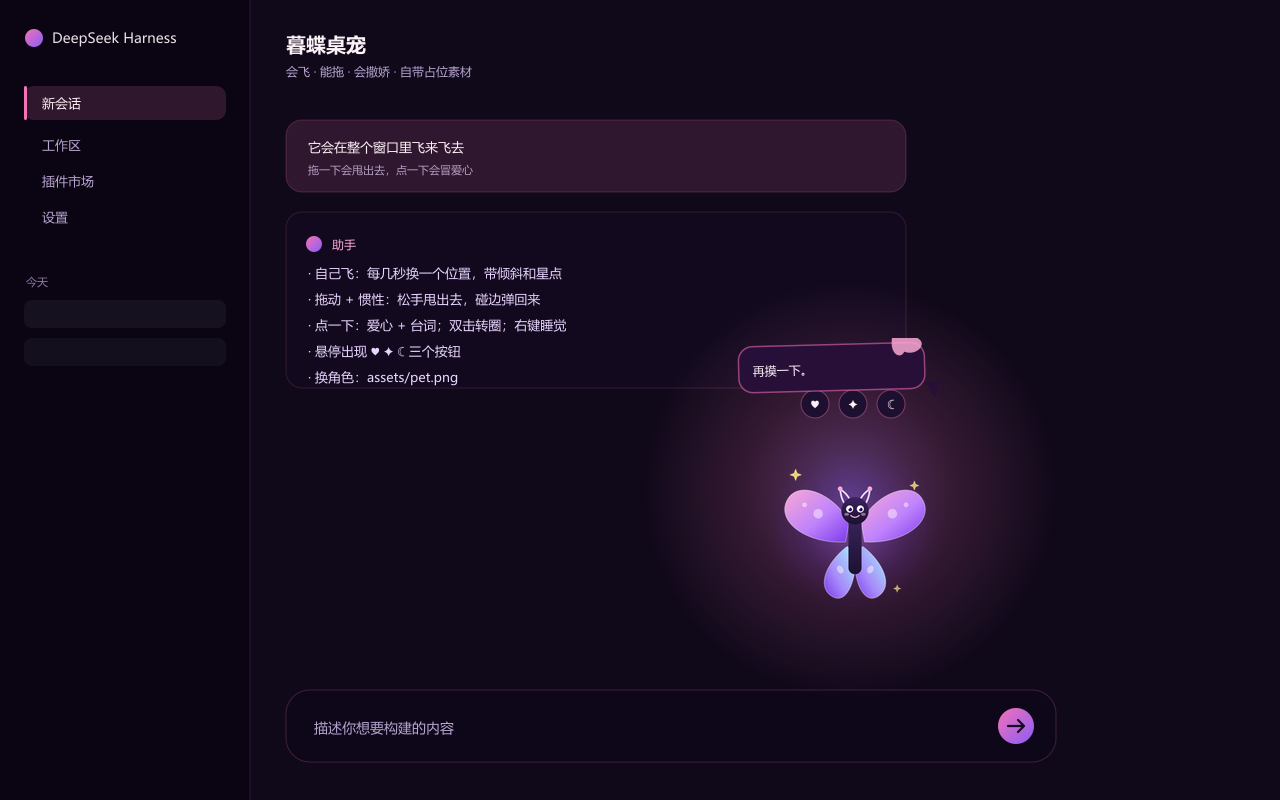
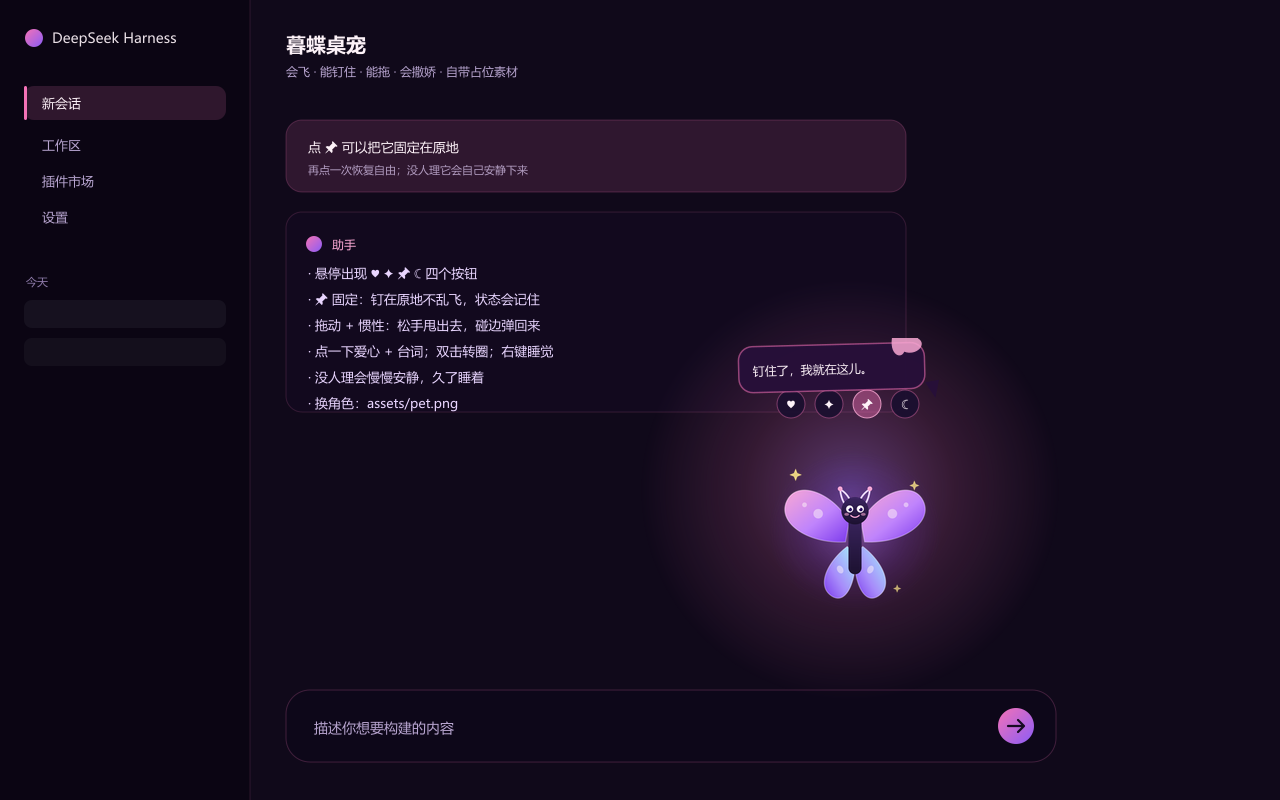
pet: add a pin toggle so it can stay put, and calm down when ignored

diff --git a/client.js b/client.js
@@ -14,6 +14,7 @@ window.__ModuleLoader__.load({
     var PET_SRC = '/dsh-clove-pet/pet.png';
     var STORE_POS = 'dsh-clove-pet:pos:v2';
     var STORE_AFF = 'dsh-clove-pet:affinity:v1';
+    var STORE_PIN = 'dsh-clove-pet:pinned:v1';
     var DEFAULT_SIZE = 150;
     var MARGIN = 8;
     var FRICTION = 2.6;
@@ -215,6 +216,7 @@ window.__ModuleLoader__.load({
   -webkit-tap-highlight-color: transparent;
 }
 .dsh-clove-pet .pet-act:hover { background: rgba(244, 114, 182, 0.32); }
+.dsh-clove-pet .pet-act.is-active { background: rgba(244, 114, 182, 0.42); border-color: rgba(249, 168, 212, 0.85); box-shadow: 0 0 0 2px rgba(244, 114, 182, 0.22), 0 4px 14px rgba(0, 0, 0, 0.4); }
 
 .dsh-clove-pet .pet-fx { position: absolute; inset: 0; pointer-events: none; overflow: visible; }
 .dsh-clove-pet .pet-fx-item {
@@ -327,6 +329,12 @@ window.__ModuleLoader__.load({
       flyBtn.setAttribute('title', '飞一下');
       flyBtn.textContent = '✦';
 
+      var pinBtn = document.createElement('button');
+      pinBtn.className = 'pet-act pet-act-pin';
+      pinBtn.setAttribute('type', 'button');
+      pinBtn.setAttribute('title', '固定在这个位置');
+      pinBtn.textContent = '📌';
+
       var sleepBtn = document.createElement('button');
       sleepBtn.className = 'pet-act pet-act-sleep';
       sleepBtn.setAttribute('type', 'button');
@@ -352,6 +360,7 @@ window.__ModuleLoader__.load({
       button.appendChild(body);
       actions.appendChild(heartBtn);
       actions.appendChild(flyBtn);
+      actions.appendChild(pinBtn);
       actions.appendChild(sleepBtn);
       host.appendChild(glow);
       host.appendChild(fx);
@@ -376,6 +385,7 @@ window.__ModuleLoader__.load({
         facing: 1,
         mode: 'idle',
         sleeping: false,
+        pinned: false,
         affinity: 0,
         silent: 0,
       };
@@ -466,7 +476,7 @@ window.__ModuleLoader__.load({
       }
 
       function flyTo(tx, ty, duration) {
-        if (state.sleeping) return;
+        if (state.sleeping || state.pinned) return;
         stopMotion();
         state.mode = 'fly';
         host.classList.add('is-flying');
@@ -551,6 +561,32 @@ window.__ModuleLoader__.load({
           return;
         }
         var roll = Math.random();
+        if (state.pinned) {
+          // 固定模式：只在原地做小动作，绝不自己换位置
+          if (roll < 0.3) {
+            showBubble(pickLine(LINES.lonely), 3200);
+          } else if (roll < 0.42) {
+            spin();
+          } else if (roll < 0.54) {
+            replay('is-happy', 760);
+          }
+          scheduleIdle(rand(4500, 8500));
+          return;
+        }
+        if (state.silent >= 4) {
+          // 没人理的时候慢慢安静下来，不要一直满窗口飞
+          if (roll < 0.22) {
+            flyTo(rand(MARGIN, maxX()), rand(MARGIN, maxY()));
+          } else if (roll < 0.36) {
+            showBubble(pickLine(LINES.lonely), 3200);
+          } else if (roll < 0.46) {
+            spin();
+          } else if (roll < 0.56) {
+            replay('is-happy', 760);
+          }
+          scheduleIdle(rand(4500, 8500));
+          return;
+        }
         if (roll < 0.5) {
           flyTo(rand(MARGIN, maxX()), rand(MARGIN, maxY()));
         } else if (roll < 0.62) {
@@ -644,6 +680,34 @@ window.__ModuleLoader__.load({
         else sleep();
       }
 
+      function syncPinButton() {
+        pinBtn.textContent = state.pinned ? '📍' : '📌';
+        pinBtn.setAttribute('aria-pressed', state.pinned ? 'true' : 'false');
+        pinBtn.setAttribute('title', state.pinned ? '固定中：点一下恢复自由' : '固定在这个位置');
+        if (state.pinned) pinBtn.classList.add('is-active');
+        else pinBtn.classList.remove('is-active');
+      }
+
+      function togglePin() {
+        if (state.sleeping) wakeUp();
+        state.pinned = !state.pinned;
+        state.silent = 0;
+        storage.set(STORE_PIN, state.pinned ? '1' : '0');
+        persistPos();
+        syncPinButton();
+        if (state.pinned) {
+          stopMotion();
+          state.mode = 'idle';
+          host.classList.remove('is-flying');
+          host.style.setProperty('--pet-tilt', '0deg');
+          showBubble('钉住了，我就在这儿。');
+          scheduleIdle(rand(4500, 8000));
+        } else {
+          showBubble('好，随便逛逛。');
+          scheduleIdle(rand(1800, 3200));
+        }
+      }
+
       function greetingPool() {
         var hour = new Date().getHours();
         if (hour < 6) return LINES.hello.night;
@@ -657,6 +721,7 @@ window.__ModuleLoader__.load({
       // restore saved position / affinity
       var saved = storage.get(STORE_POS);
       var savedAffinity = parseInt(storage.get(STORE_AFF) || '0', 10);
+      state.pinned = storage.get(STORE_PIN) === '1';
       var startX = maxX() - 20;
       var startY = clamp(window.innerHeight * 0.58, MARGIN, maxY());
       if (saved) {
@@ -671,6 +736,7 @@ window.__ModuleLoader__.load({
       state.affinity = Number.isFinite(savedAffinity) && savedAffinity > 0 ? savedAffinity : 0;
       applyPos();
       applyFacing();
+      syncPinButton();
 
       function pointerOffset(event) {
         return { dx: (event.clientX || 0) - state.x, dy: (event.clientY || 0) - state.y };
@@ -765,6 +831,11 @@ window.__ModuleLoader__.load({
         later(function () { host.classList.remove('is-hover'); }, 260);
       }
 
+      function onPinClick(event) {
+        if (event && event.stopPropagation) event.stopPropagation();
+        togglePin();
+      }
+
       function onResize() {
         petW = host.offsetWidth || petW;
         petH = Math.round(petW * 1.02);
@@ -782,9 +853,11 @@ window.__ModuleLoader__.load({
       button.addEventListener('pointerleave', hideHover);
       heartBtn.addEventListener('pointerenter', showHover);
       flyBtn.addEventListener('pointerenter', showHover);
+      pinBtn.addEventListener('pointerenter', showHover);
       sleepBtn.addEventListener('pointerenter', showHover);
       heartBtn.addEventListener('pointerleave', hideHover);
       flyBtn.addEventListener('pointerleave', hideHover);
+      pinBtn.addEventListener('pointerleave', hideHover);
       sleepBtn.addEventListener('pointerleave', hideHover);
       heartBtn.addEventListener('click', function (event) {
         if (event && event.stopPropagation) event.stopPropagation();
@@ -793,9 +866,14 @@ window.__ModuleLoader__.load({
       flyBtn.addEventListener('click', function (event) {
         if (event && event.stopPropagation) event.stopPropagation();
         if (state.sleeping) wakeUp();
+        if (state.pinned) {
+          showBubble('被钉住了，飞不动。');
+          return;
+        }
         flyTo(rand(MARGIN, maxX()), rand(MARGIN, maxY()));
         showBubble(pickLine(LINES.walkAway), 1800);
       });
+      pinBtn.addEventListener('click', onPinClick);
       sleepBtn.addEventListener('click', function (event) {
         if (event && event.stopPropagation) event.stopPropagation();
         toggleSleep();
@@ -805,7 +883,9 @@ window.__ModuleLoader__.load({
       // fly in from the right edge, then say hi
       introTimer = later(function () {
         if (state.sleeping) return;
-        flyTo(clamp(window.innerWidth * 0.62, MARGIN, maxX()), clamp(window.innerHeight * 0.46, MARGIN, maxY()), 1600);
+        if (!state.pinned) {
+          flyTo(clamp(window.innerWidth * 0.62, MARGIN, maxX()), clamp(window.innerHeight * 0.46, MARGIN, maxY()), 1600);
+        }
         later(function () {
           if (state.affinity === 0) showBubble(LINES.firstMeet[0], 4200);
           else showBubble(pickLine(greetingPool()), 4200);
@@ -828,6 +908,9 @@ window.__ModuleLoader__.load({
         button.removeEventListener('contextmenu', onContextMenu);
         button.removeEventListener('pointerenter', showHover);
         button.removeEventListener('pointerleave', hideHover);
+        pinBtn.removeEventListener('pointerenter', showHover);
+        pinBtn.removeEventListener('pointerleave', hideHover);
+        pinBtn.removeEventListener('click', onPinClick);
         window.removeEventListener('resize', onResize);
         window.removeEventListener('pointermove', onPointerMove);
         window.removeEventListener('pointerup', onPointerUp);
